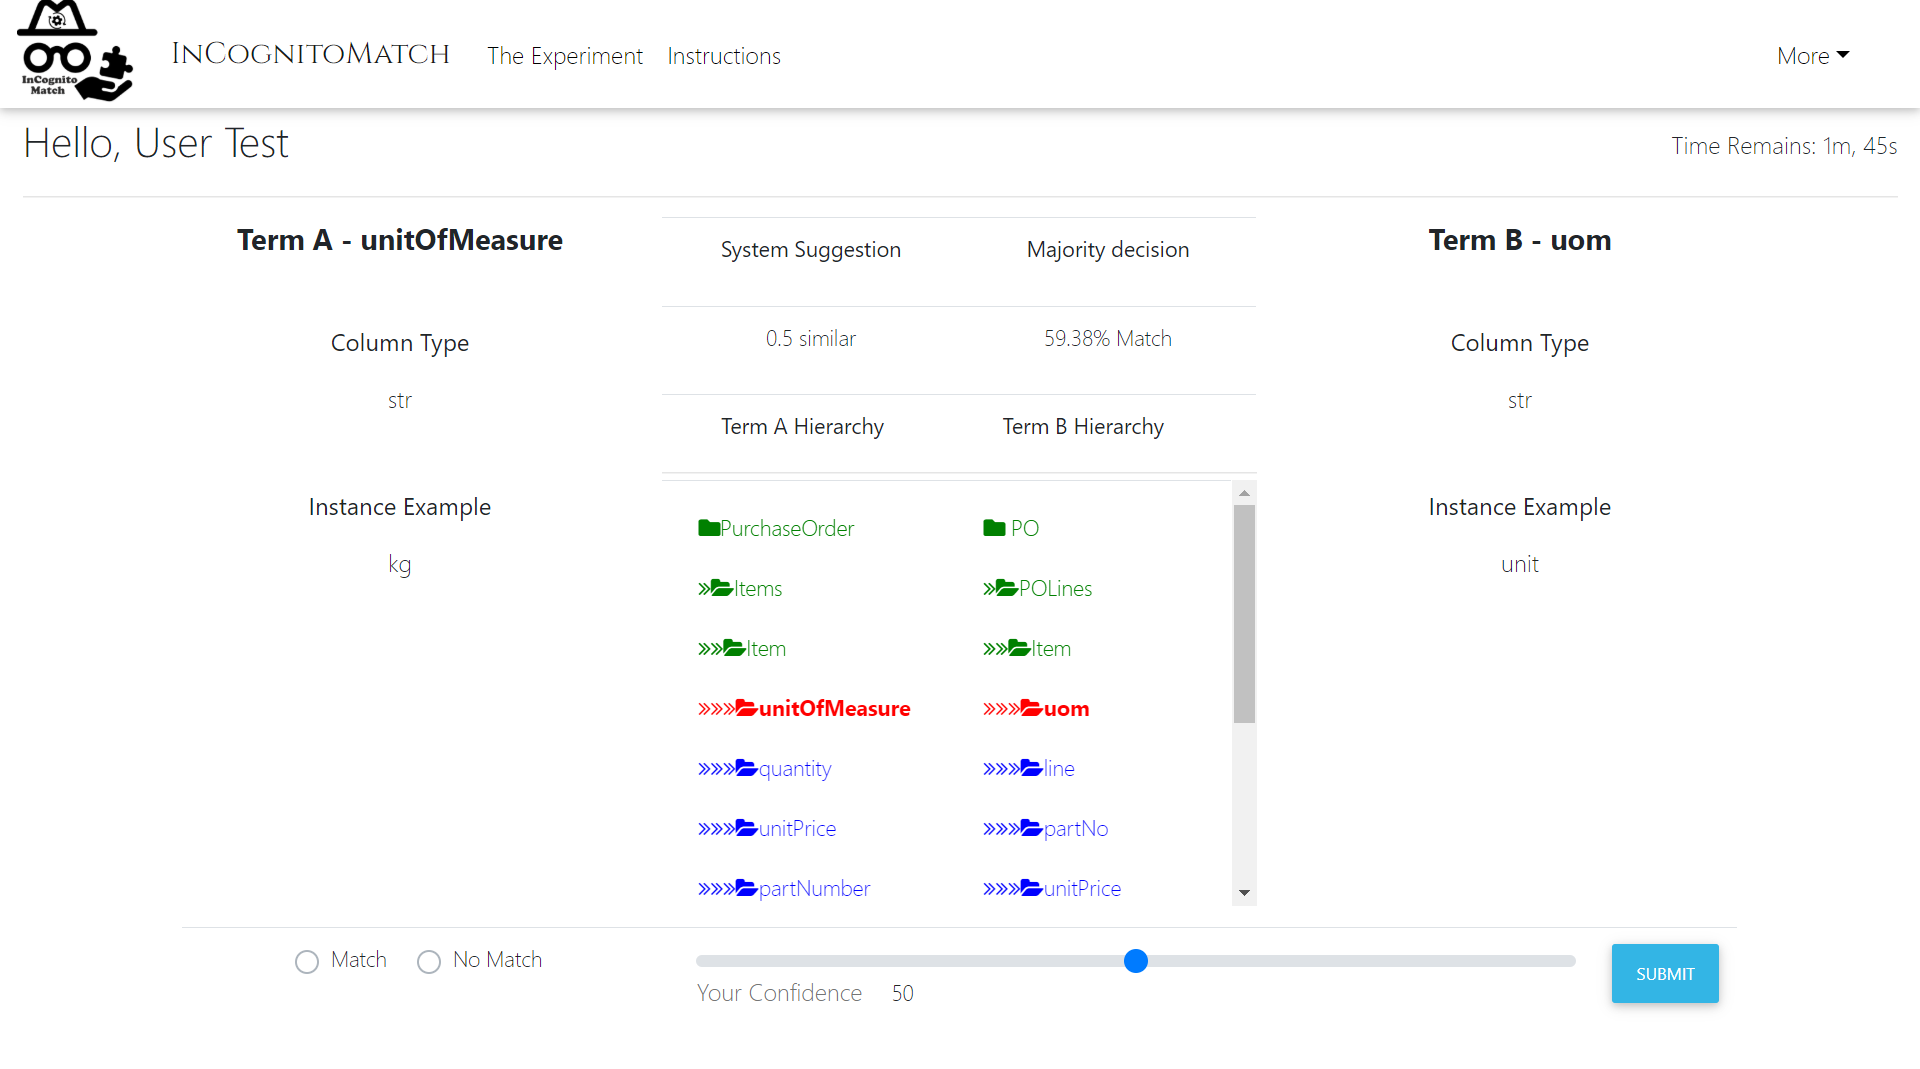
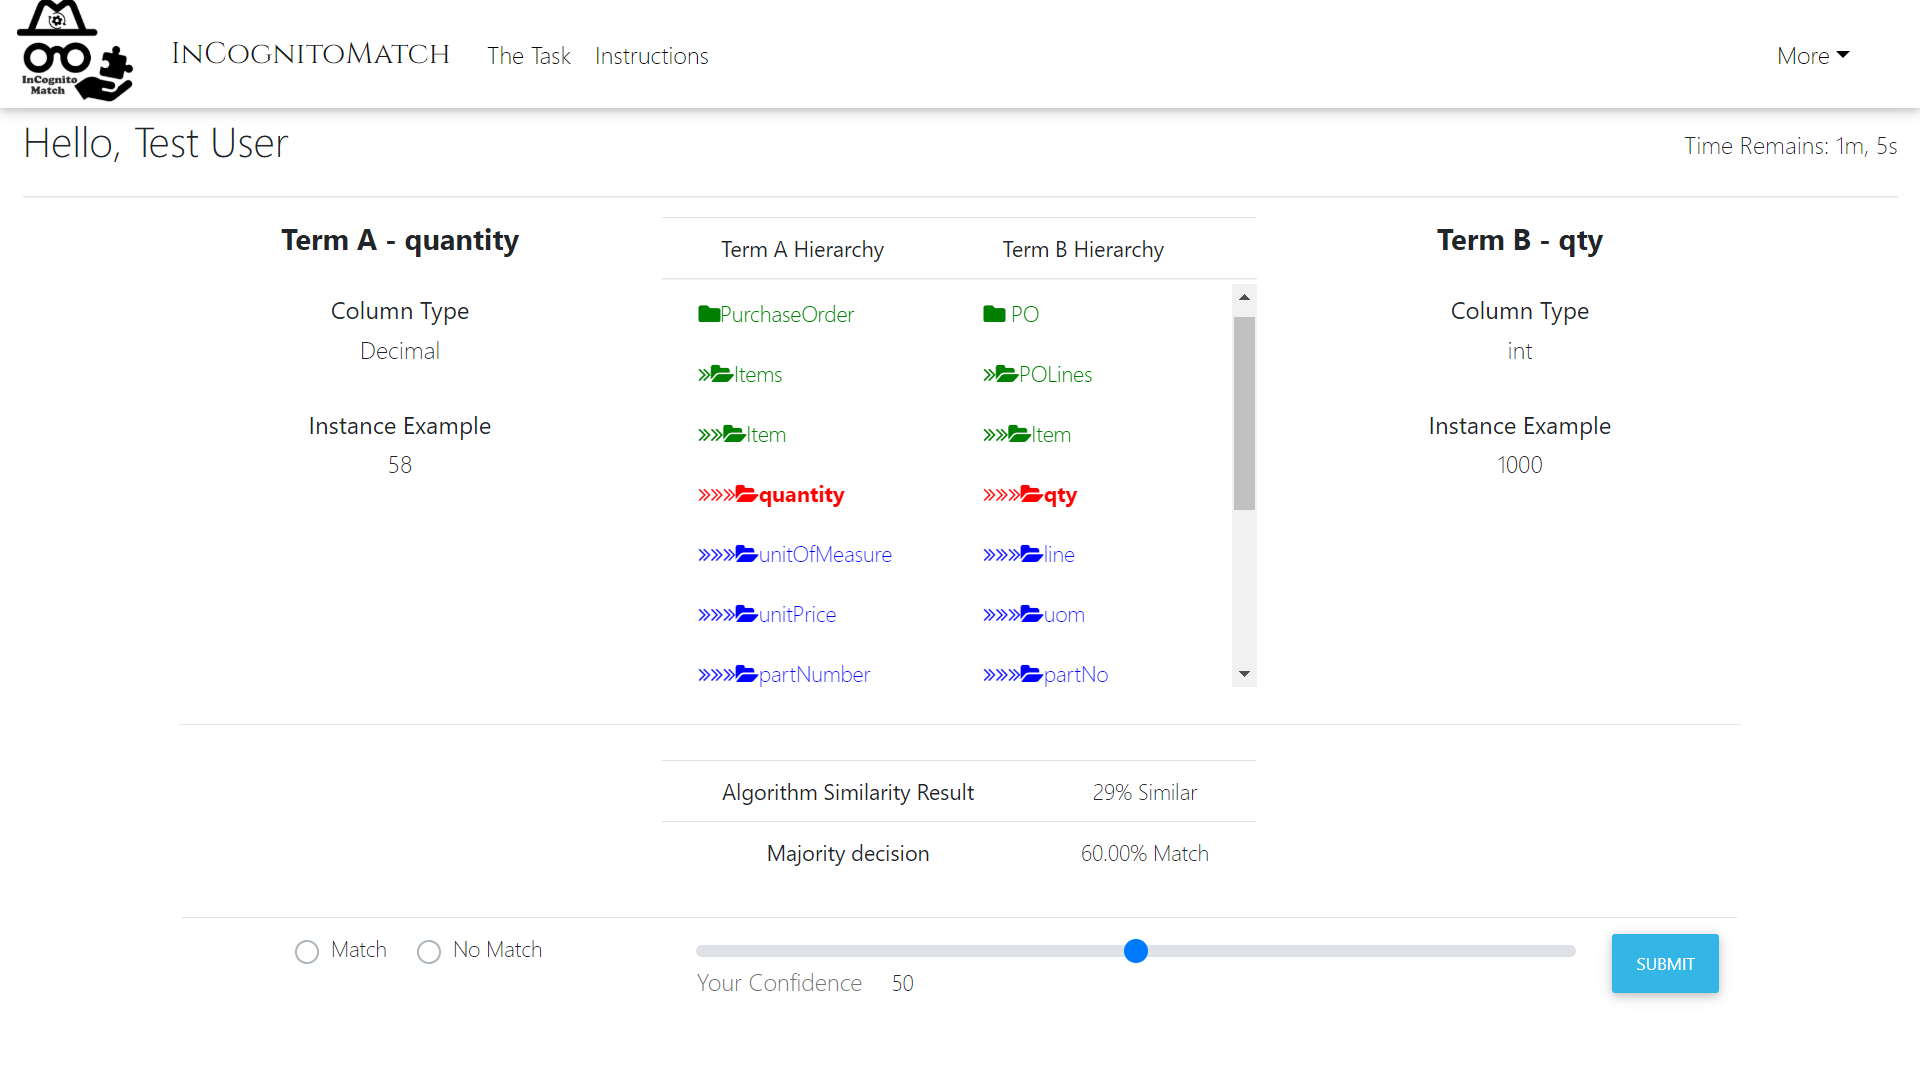
update user task screen

diff --git a/html/home.html b/html/home.html
@@ -1,11 +1,46 @@
 <div id="home" style="margin-top: 8%; margin-left: 4%;">
- In this task you will be asked to decide whether pair is a match. <br>
- Regarding each pair, you will be decided to scale your confidence level.
+ Welcome to SCHEMA MATCHING Task! <br>
+
+ Overview
+ Data Integration assignments are useful in a variety of business
+ applications and are necessary due to different reasons.
+ For instance, when multiple organizations are merged and has to transfer the data
+ between the systems or when new system is introduced and the data has to migrate.
+SCHEMA MATCHING is the first step in this process. The matching aimed at
+ finding correspondences between the target and the candidate schema.
+
+ Task Overflow
+ There are three parts to the task:
  <br>
- Each pair consists of 2 terms from two different schemata, where term is a field in schema.
+ (1) User information.
  <br>
- For each term you might see its: name, type, hierarchy, instances (if exist), system suggestion, and
+ (2) Logical riddles.
+ <br>
+ (3) Training phase.
+ <br>
+ (4) Actual task.
+
+ In the second stage, you will encountered some logical riddles.
+ You will have 3 minutes at most to answer all,
+ Try answer on as much as you can.
+
+ The third and fourth part contains the matching task, where the training
+ phase is short part aimed at introducing you the system.
+ While the third part lasts unlimited time, the fourth part is constrained
+ to 3 minutes.
+
+ During the task, you will introduced 2 schemata, one stands for candidate and the other as target.
+ In each level, a pair will be shown to you. A pair is 2 terms, one from the candidate schema
+ and the other from target schema.
+ Your mission is to decide whether pair is a match and to scale your confidence level.
+ <br>
+ Regarding each pair, the following information will be provided for each term:
+ name, type, hierarchy, instances (if exist), system suggestion, and
  majority decision.
+
+ <img border="0" alt="user_task_screen" src="/images/questionScreen.PNG" style="height: 50%;">
+
+ Figure 1 shows an example to screen exp that you will see.
  <br>
  The color legend in the hierarchy:
  <br>
@@ -14,15 +49,6 @@
  <em style="color: red">Red</em> - The Term.
  <br>
  <em style="color: blue">Blue</em> - Sibling of the term in the hierarchy.
- <br>
- <br>
- There are three parts to the task:
- <br>
-(1) Logical riddles.
- <br>
-(2) Training phase.
- <br>
-(3) Actual task.
  <br>
 Please click at "The Task" at the top of the page.
 

diff --git a/html/exp.html b/html/exp.html
@@ -17,7 +17,7 @@ ng-click="show_coordinate($event)">
         </div>
     </div>
 
-    <div class="row" style="height: 50%">
+    <div class="row" style="height: 49%">
 
         <div class="col-sm-1" style="height: 100%"></div>
 
@@ -159,10 +159,10 @@ ng-click="show_coordinate($event)">
 
     <hr style="width: 83.3333%; margin-top: 0.5%; margin-bottom: 0.5%;">
 
-    <div class="row" style="height: 20%">
+    <div class="row" style="height: 18%">
         <div class="col-sm-4" style="height: 100%"></div>
 
-        <div class="col-sm-4" style="height: 95%; margin-top: 1%; margin-bottom: 1%;">
+        <div class="col-sm-4" style="height: 95%; align-items: center; display: inherit;">
             <table class="table" id="suggestionAndMajorOpinionTable" style="height: 25%;/* display: block; */
                                                             overflow: auto; margin-bottom: 0;">
                 <tr>

diff --git a/js/project.js b/js/project.js
@@ -178,8 +178,6 @@ app.controller('avivTest', function ($scope, $http,$compile, $interval, fileUplo
             var distance = countDownDate - now;
 
             if (distance <= 0){
-                clearInterval($scope.timeElapsed);
-                document.getElementById("time_remains_riddles").innerHTML =  "";
                 $scope.show_test();
             } else {
                 var minutes = Math.floor((distance % (1000 * 60 * 60)) / (1000 * 60));
@@ -201,6 +199,8 @@ app.controller('avivTest', function ($scope, $http,$compile, $interval, fileUplo
     };
 
     $scope.show_test = function() {
+        clearInterval($scope.timeElapsed);
+        document.getElementById("time_remains_riddles").innerHTML =  "";
 
         $http({
             method: 'POST',
